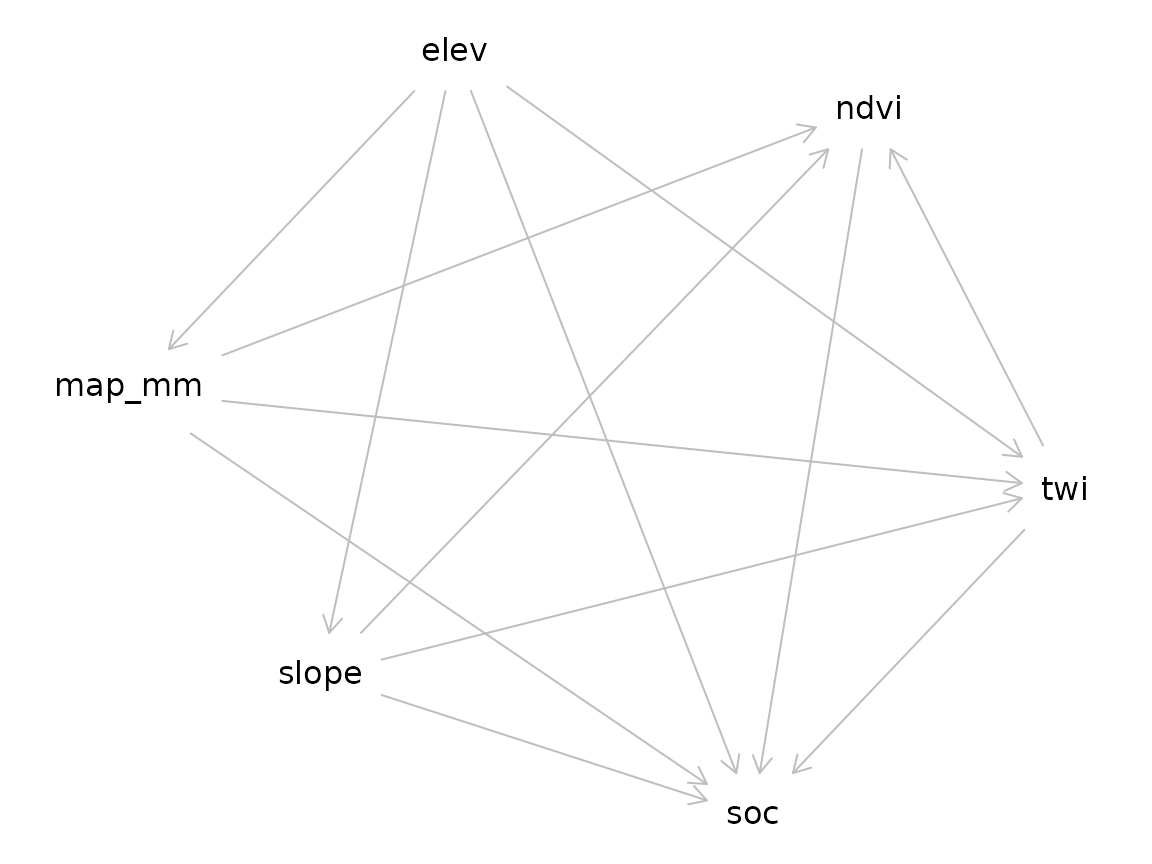
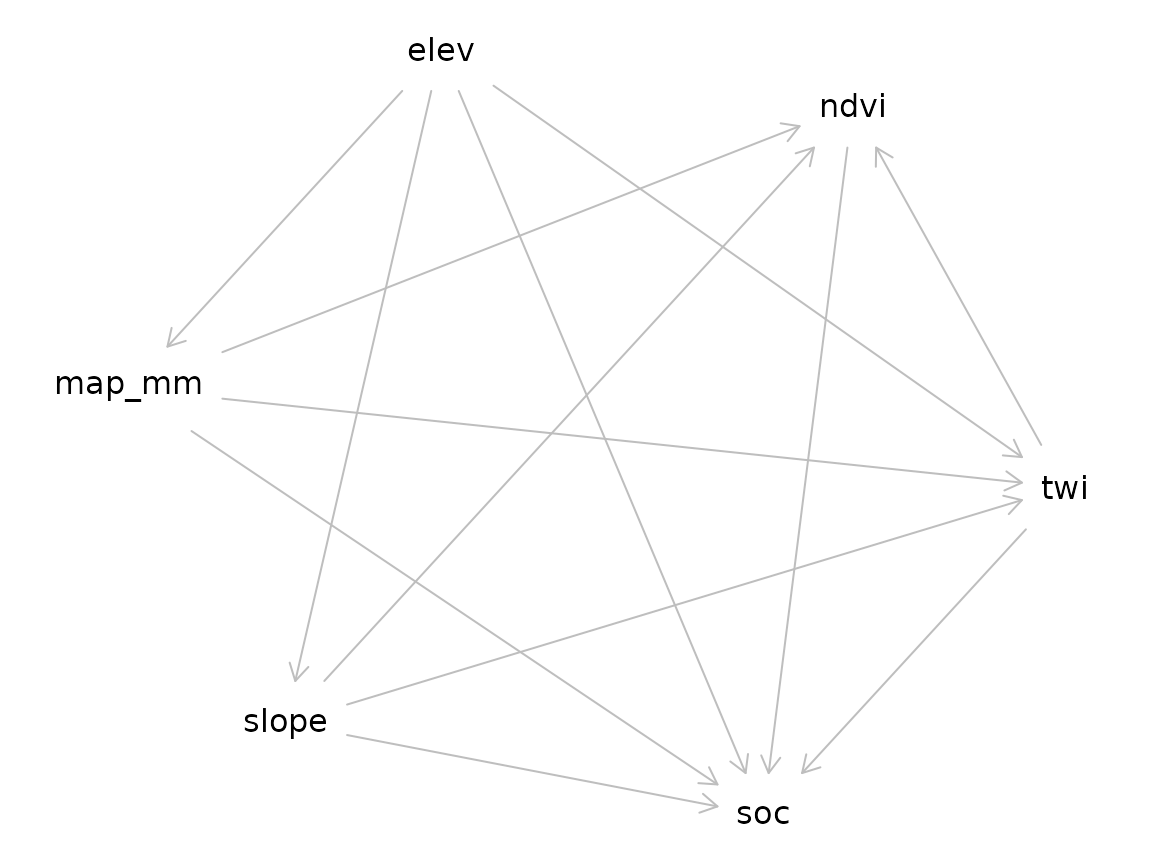
Deploying to gh-pages from @ HugoMachadoRodrigues/edaphos@fd4ab0bbde6ec13f040b41f5c517688067bcab76 🚀

diff --git a/articles/getting-started.html b/articles/getting-started.html
@@ -345,7 +345,7 @@ Here we show a representative pair per cluster.</p>
 <span><span class="co">#&gt;   pool_index posterior_var posterior_sd</span></span>
 <span><span class="co">#&gt; 7          7      3.902586     1.975496</span></span>
 <span><span class="co">#&gt; 3          3      3.826381     1.956114</span></span>
-<span><span class="co">#&gt; 1          1      3.342914     1.828364</span></span></code></pre></div>
+<span><span class="co">#&gt; 2          2      3.342914     1.828364</span></span></code></pre></div>
 </div>
 </div>
 <div class="section level2">

diff --git a/reference/causal_kg_new.html b/reference/causal_kg_new.html
@@ -142,7 +142,7 @@ directed <code>igraph</code>.</p>
 <span class="r-out co"><span class="r-pr">#&gt;</span>                                                    evidence confidence</span>
 <span class="r-out co"><span class="r-pr">#&gt;</span> 1 Higher precipitation favours organic-matter accumulation.        0.9</span>
 <span class="r-out co"><span class="r-pr">#&gt;</span>              timestamp</span>
-<span class="r-out co"><span class="r-pr">#&gt;</span> 1 2026-04-27T15:29:08Z</span>
+<span class="r-out co"><span class="r-pr">#&gt;</span> 1 2026-04-27T15:36:32Z</span>
 <span class="r-in"><span><span class="co"># }</span></span></span>
 </code></pre></div>
     </div>

diff --git a/articles/getting-started.md b/articles/getting-started.md
@@ -233,7 +233,7 @@ q
 #>   pool_index posterior_var posterior_sd
 #> 7          7      3.902586     1.975496
 #> 3          3      3.826381     1.956114
-#> 1          1      3.342914     1.828364
+#> 2          2      3.342914     1.828364
 ```
 
 ## Head-to-head: unified uncertainty scoring

diff --git a/reference/causal_kg_new.md b/reference/causal_kg_new.md
@@ -36,6 +36,6 @@ An `edaphos_causal_kg` object (S3) containing an empty directed
 #>                                                    evidence confidence
 #> 1 Higher precipitation favours organic-matter accumulation.        0.9
 #>              timestamp
-#> 1 2026-04-27T15:29:08Z
+#> 1 2026-04-27T15:36:32Z
 # }
 ```